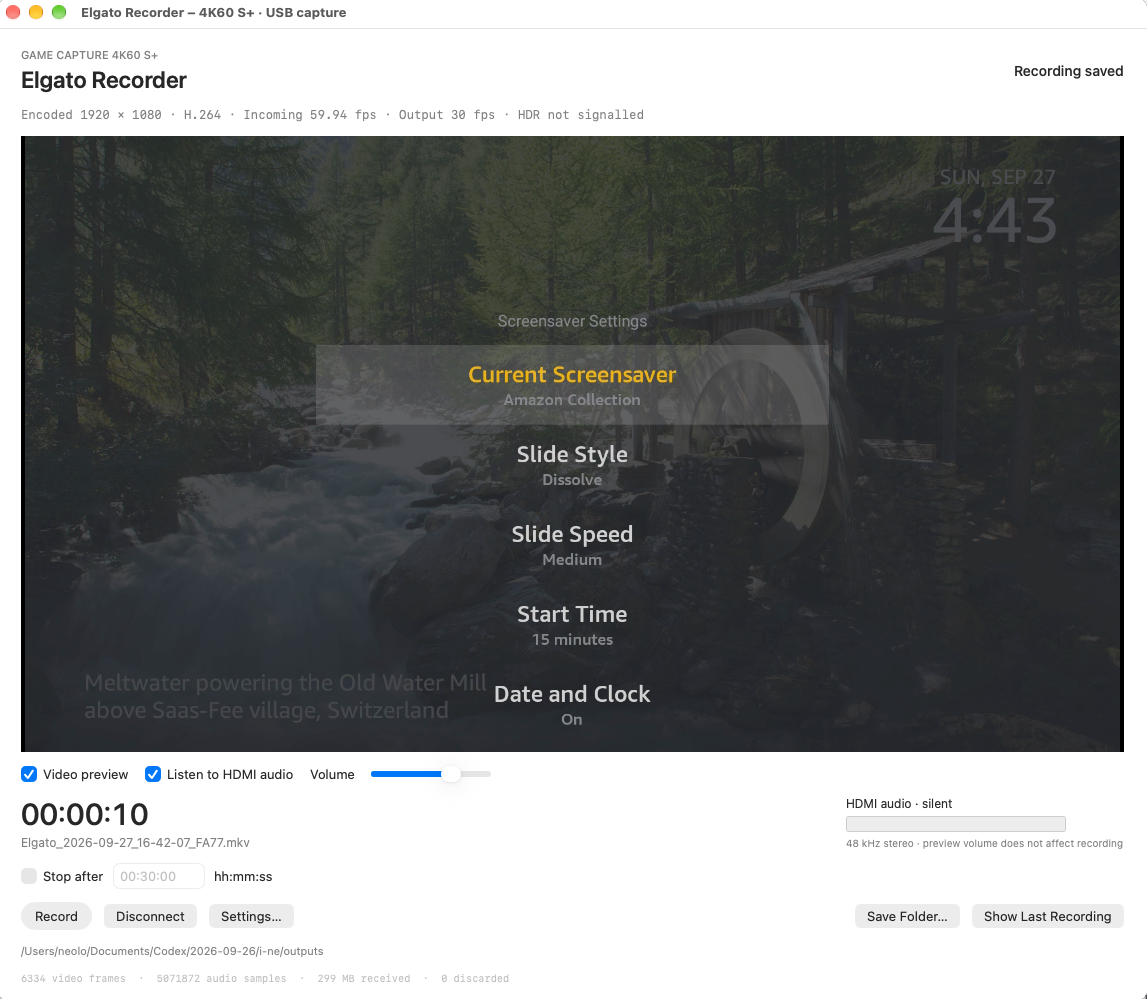
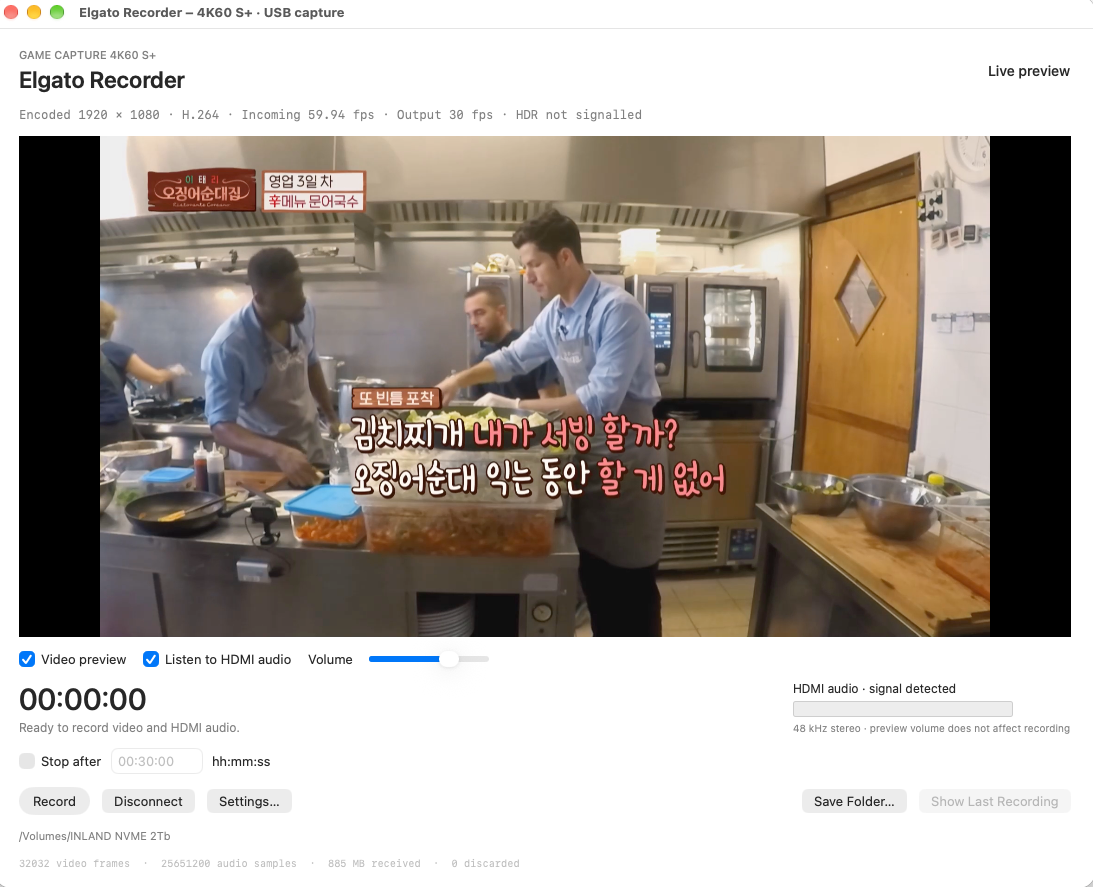
Replace app screenshot with live video and audio preview

diff --git a/RELEASE-NOTES.md b/RELEASE-NOTES.md
@@ -4,7 +4,7 @@ Native macOS ARM and Intel builds. Requires macOS 26+; NDI runtime is bundled.
 
 ![Elgato Game Capture 4K60 S+](https://raw.githubusercontent.com/Delitants/Elgato-4K60-S-Plus-Recorder/main/docs/images/elgato-4k60-s-plus.png)
 
-![Elgato Recorder on macOS with a completed recording](https://raw.githubusercontent.com/Delitants/Elgato-4K60-S-Plus-Recorder/main/docs/images/elgato-recorder.png)
+![Elgato Recorder on macOS with live video and HDMI audio preview](https://raw.githubusercontent.com/Delitants/Elgato-4K60-S-Plus-Recorder/main/docs/images/elgato-recorder.png)
 
 - Fixed false recording overloads caused by interleaved audio/video timestamps.
   Queue age now measures monotonic waiting time, with a bounded two-second

diff --git a/README.md b/README.md
@@ -8,7 +8,7 @@ experimental support for a device that Elgato does not officially support on mac
 
 ![Elgato Game Capture 4K60 S+](docs/images/elgato-4k60-s-plus.png)
 
-![Elgato Recorder on macOS with a completed recording](docs/images/elgato-recorder.png)
+![Elgato Recorder on macOS with live video and HDMI audio preview](docs/images/elgato-recorder.png)
 
 ## Install
 
